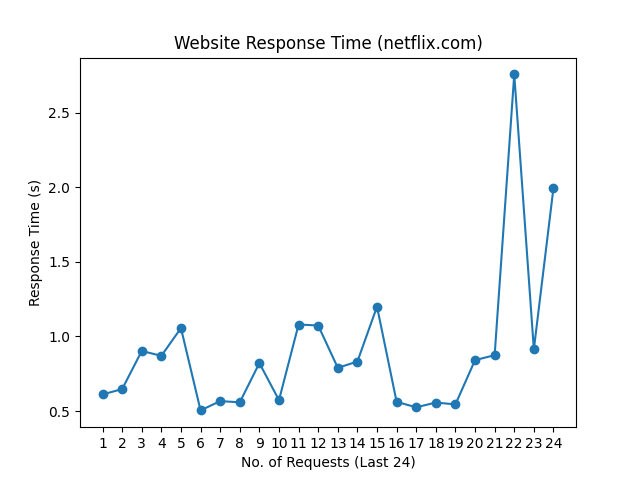
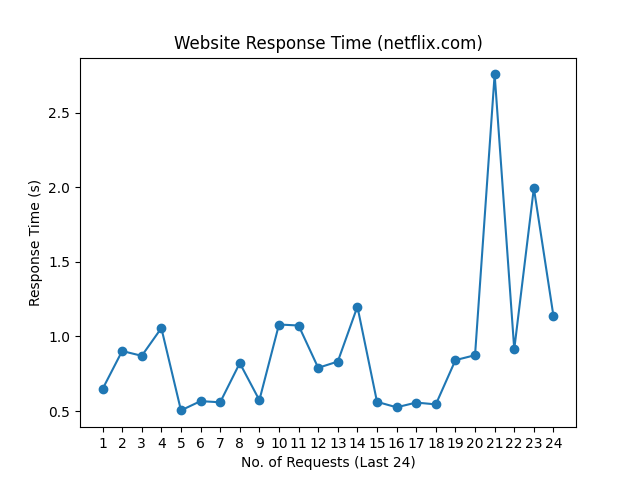
update README.md, history and graph

Changed region(s): [[0.1562, 0.125, 0.875, 0.875]]

diff --git a/README.md b/README.md
@@ -1,10 +1,10 @@
 # Web Monitoring
 
-Last Checked: 14/10/2023 08:58
+Last Checked: 15/10/2023 09:04
 
 | Website | Response Time (s) | Status | Avg Uptime (%) |
 |---------|-------------------|--------|----------------|
 | www.thiswebsiteisdown.net | 0 <br> <img src="graph/thiswebsiteisdown.net.png" alt="Graph" width="200" height="200">  | ❌ Down | 0.00 |
-| www.netflix.com | 1.994644 <br> <img src="graph/netflix.com.png" alt="Graph" width="200" height="200">  | ✅ Up | 100.00 |
-| www.google.com | 0.097566 <br> <img src="graph/google.com.png" alt="Graph" width="200" height="200">  | ✅ Up | 100.00 |
-| www.facebook.com | 0.486314 <br> <img src="graph/facebook.com.png" alt="Graph" width="200" height="200">  | ✅ Up | 100.00 |
+| www.netflix.com | 1.136841 <br> <img src="graph/netflix.com.png" alt="Graph" width="200" height="200">  | ✅ Up | 100.00 |
+| www.google.com | 0.082145 <br> <img src="graph/google.com.png" alt="Graph" width="200" height="200">  | ✅ Up | 100.00 |
+| www.facebook.com | 0.793731 <br> <img src="graph/facebook.com.png" alt="Graph" width="200" height="200">  | ✅ Up | 100.00 |
